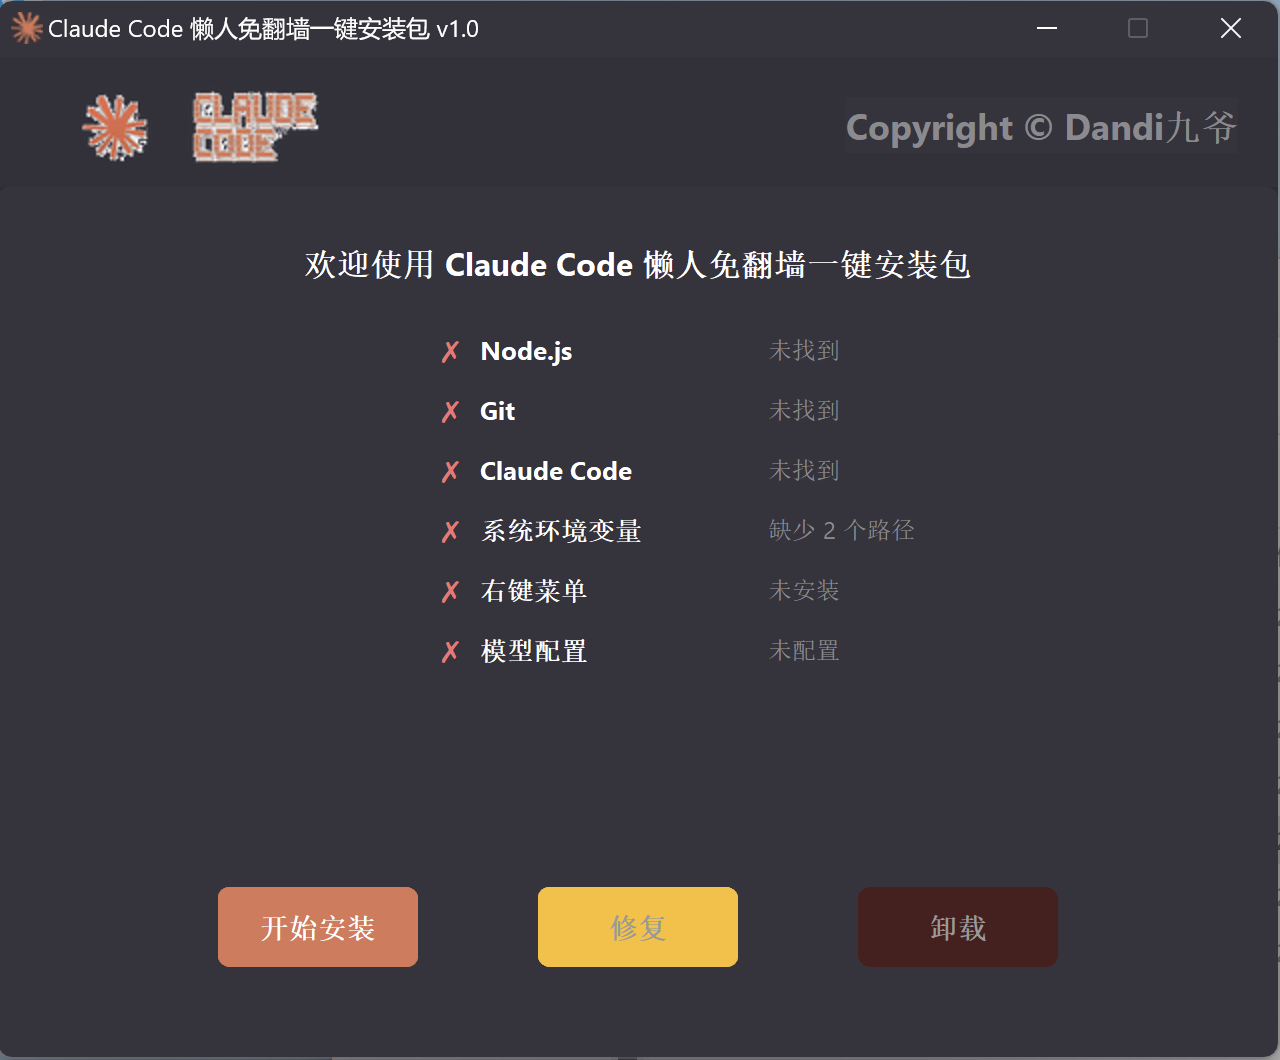
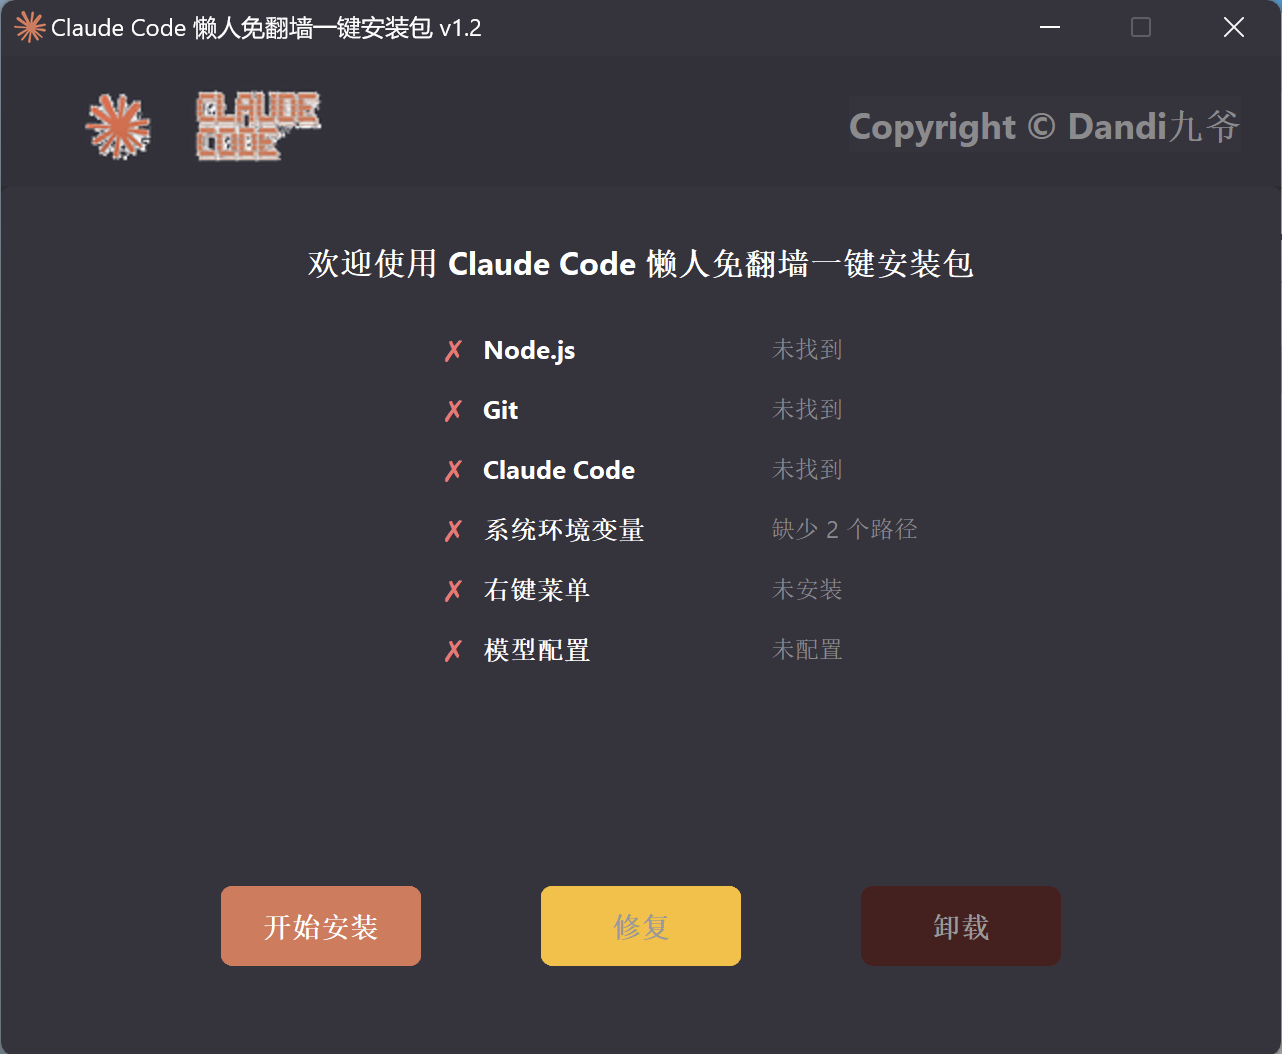
feat: 优化 npm 源优先级及任务栏图标清晰度
- npm 安装源改为腾讯云优先（经验证全量包含 claude-code 所有平台子包）
- main.py 启动时设置 Per-Monitor DPI Awareness，避免 GDI 缩放模糊
- 改用 Win32 LoadImageW + WM_SETICON 替代 iconbitmap()，任务栏按实际 DPI 取正确尺寸帧

diff --git a/app/window.py b/app/window.py
@@ -176,11 +176,51 @@ class InstallerWindow(ctk.CTk):
                 base = sys._MEIPASS  # type: ignore[attr-defined]
             else:
                 base = os.path.dirname(os.path.dirname(os.path.abspath(__file__)))
-            icon = os.path.join(base, "assets", "icon.ico")
-            if os.path.isfile(icon):
-                self.iconbitmap(icon)
+            icon_path = os.path.join(base, "assets", "icon.ico")
+            if not os.path.isfile(icon_path):
+                return
+            # Prevent the default blue-box icon immediately via Tkinter
+            self.iconbitmap(icon_path)
+            # After the event loop starts and HWND is fully valid, apply the
+            # Win32 WM_SETICON so Windows picks the right DPI-scaled frame
+            # from the multi-size ICO for the taskbar.
+            self.after(100, lambda: self._set_window_icon_win32(icon_path))
         except Exception:
             pass
+
+    def _set_window_icon_win32(self, icon_path: str) -> None:
+        """Set window icon via Win32 API directly, bypassing Tkinter's Tcl layer.
+
+        Uses LoadImageW to select the correct size from the multi-size ICO,
+        then WM_SETICON to apply both ICON_SMALL and ICON_BIG so Windows can
+        pick the right resolution for the taskbar at any DPI scale.
+        """
+        import ctypes
+        from ctypes import windll, wintypes
+
+        IMAGE_ICON = 1
+        LR_LOADFROMFILE = 0x10
+        WM_SETICON = 0x0080
+        ICON_SMALL = 0
+        ICON_BIG = 1
+
+        hwnd = windll.user32.GetParent(self.winfo_id())
+
+        # SM_CXSMICON/SM_CYSMICON = metrics 49/50 (title-bar / taskbar small icon)
+        sm = windll.user32.GetSystemMetrics(49)
+        hicon_small = windll.user32.LoadImageW(
+            None, icon_path, IMAGE_ICON, sm, sm, LR_LOADFROMFILE,
+        )
+        # SM_CXICON/SM_CYICON = metrics 11/12 (large icon used by taskbar & Alt-Tab)
+        lg = windll.user32.GetSystemMetrics(11)
+        hicon_large = windll.user32.LoadImageW(
+            None, icon_path, IMAGE_ICON, lg, lg, LR_LOADFROMFILE,
+        )
+
+        if hicon_small:
+            windll.user32.SendMessageW(hwnd, WM_SETICON, ICON_SMALL, hicon_small)
+        if hicon_large:
+            windll.user32.SendMessageW(hwnd, WM_SETICON, ICON_BIG, hicon_large)
 
     def _set_title_bar_color(self) -> None:
         if sys.platform != "win32":

diff --git a/main.py b/main.py
@@ -96,6 +96,23 @@ def elevate() -> None:
     sys.exit(0)
 
 
+def _set_dpi_awareness() -> None:
+    """Enable Per-Monitor DPI awareness so Windows uses native icon resolution."""
+    if sys.platform != "win32":
+        return
+    try:
+        import ctypes
+        # DPI_AWARENESS_CONTEXT_PER_MONITOR_AWARE_V2 (-4), Windows 10 1703+
+        ctypes.windll.user32.SetProcessDpiAwarenessContext(-4)
+    except Exception:
+        try:
+            import ctypes
+            # Fallback: PROCESS_PER_MONITOR_DPI_AWARE (2), Windows 8.1+
+            ctypes.windll.shcore.SetProcessDpiAwareness(2)
+        except Exception:
+            pass
+
+
 def main() -> None:
     logger = setup_error_log()
 
@@ -109,6 +126,8 @@ def main() -> None:
     if sys.platform == "win32" and not is_admin():
         elevate()
         return
+
+    _set_dpi_awareness()
 
     try:
         from app.window import InstallerWindow

diff --git a/app/constants.py b/app/constants.py
@@ -3,7 +3,7 @@ All magic values in one place: registry keys, download URLs, command strings.
 """
 
 APP_NAME = "Claude Code 懒人免翻墙一键安装包"
-APP_VERSION = "1.1"  # 由 build.bat 自动维护，勿手动修改
+APP_VERSION = "1.2"  # 由 build.bat 自动维护，勿手动修改
 
 # --- Download URLs ---
 # Node.js fallback version (used only if latest-version lookup fails)